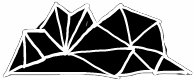
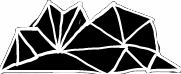
correcciones nivel 3 y visión

diff --git a/public/assets/scenes/nivel1.js b/public/assets/scenes/nivel1.js
@@ -48,7 +48,7 @@ export default class Nivel1 extends Phaser.Scene {
     this.jugador.setDepth(2);
 
     // Crear oscuridad 
-    const radioOscuridad = 200; // Radio del círculo de oscuridad
+    const radioOscuridad = 250; // Radio del círculo de oscuridad
     const oscuridad = this.add.graphics();
     oscuridad.fillStyle(0x000000, 1);
     oscuridad.setDepth(1);
@@ -61,7 +61,7 @@ export default class Nivel1 extends Phaser.Scene {
 
     // Crear la capa de oscuridad
     const menuImage = this.add.image (this.jugador.x, this.jugador.y, "oscuridadfija");
-    menuImage.setScale(6.5);
+    menuImage.setScale(8);
     this.menuImage = menuImage;
     menuImage.setDepth(1);
 

diff --git a/public/assets/scenes/nivel2.js b/public/assets/scenes/nivel2.js
@@ -49,7 +49,7 @@ export default class Nivel2 extends Phaser.Scene {
     this.jugador.setDepth(2);
 
     // Crear oscuridad 
-    const radioOscuridad = 200; // Radio del círculo de oscuridad
+    const radioOscuridad = 250; // Radio del círculo de oscuridad
     const oscuridad = this.add.graphics();
     oscuridad.fillStyle(0x000000, 1);
     oscuridad.setDepth(1);
@@ -62,7 +62,7 @@ export default class Nivel2 extends Phaser.Scene {
 
     // Crear la capa de oscuridad
     const menuImage = this.add.image (this.jugador.x, this.jugador.y, "oscuridadfija");
-    menuImage.setScale(6.5);
+    menuImage.setScale(8);
     this.menuImage = menuImage;
     menuImage.setDepth(1);
 

diff --git a/public/assets/scenes/nivel3.js b/public/assets/scenes/nivel3.js
@@ -49,7 +49,7 @@ export default class Nivel3 extends Phaser.Scene {
     this.jugador.setDepth(2);
 
     // Crear oscuridad 
-    const radioOscuridad = 200; // Radio del círculo de oscuridad
+    const radioOscuridad = 250; // Radio del círculo de oscuridad
     const oscuridad = this.add.graphics();
     oscuridad.fillStyle(0x000000, 1);
     oscuridad.setDepth(1);
@@ -62,7 +62,7 @@ export default class Nivel3 extends Phaser.Scene {
 
     // Crear la capa de oscuridad
     const menuImage = this.add.image (this.jugador.x, this.jugador.y, "oscuridadfija");
-    menuImage.setScale(6.5);
+    menuImage.setScale(8);
     this.menuImage = menuImage;
     menuImage.setDepth(1);
 
